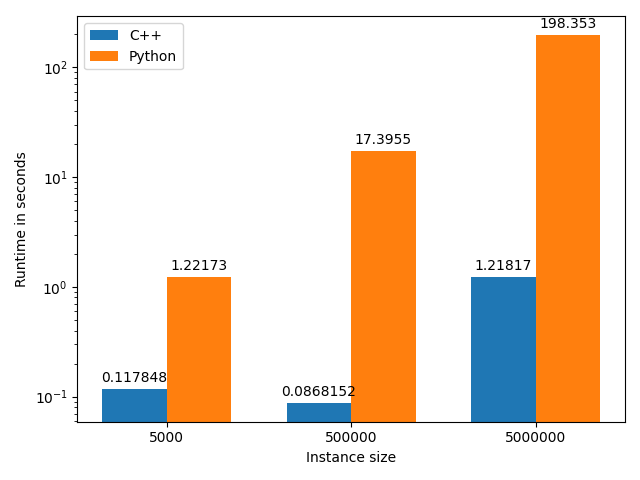
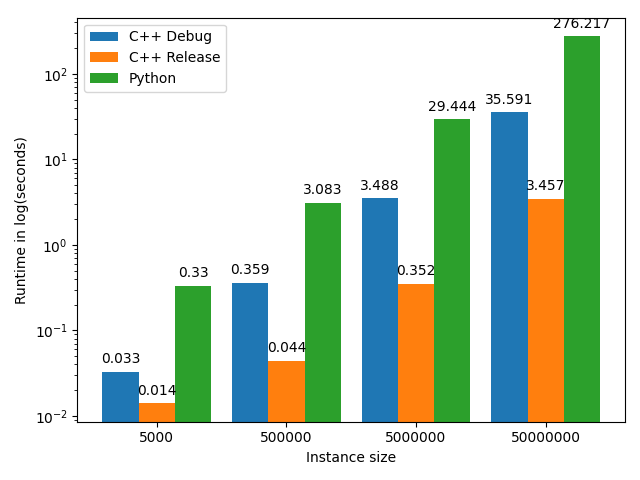
Fixed the python write flag, added result rounding

diff --git a/tester.py b/tester.py
@@ -4,9 +4,9 @@ import subprocess
 import matplotlib.pyplot as plt
 import numpy as np
 
-nbodypy = r"C:\Users\ordin\Documents\Github\GEO1000_Assignment_4\nbody.py"
-nbodyrelexe = r"C:\Users\ordin\Documents\Github\GEO1000_Assignment_4\cmake-build-release\nbody.exe"
-nbodydebexe = r"C:\Users\ordin\Documents\Github\GEO1000_Assignment_4\cmake-build-debug\nbody.exe"
+nbodypy = r"C:\Users\Durspy\Documents\GitHub\GEO1000_Assignment_4\nbody.py"
+nbodyrelexe = r"C:\Users\Durspy\Documents\GitHub\GEO1000_Assignment_4\cmake-build-release\nbody.exe"
+nbodydebexe = r"C:\Users\Durspy\Documents\GitHub\GEO1000_Assignment_4\cmake-build-debug\nbody.exe"
 iterations = [5000, 500000, 5000000, 50000000]
 
 creltimes = []
@@ -27,12 +27,22 @@ for iteration in iterations:
 	t2 = perf_counter()
 	creltimes.append(t2 - t1)
 
+
 for iteration in iterations:
 	print(f"Currently running iteration size number {iteration} in Python")
 	t1 = perf_counter()
 	system(f"python {nbodypy} {iteration}")
 	t2 = perf_counter()
 	pytimes.append(t2 - t1)
+
+print(cdebtimes)
+print(creltimes)
+print(pytimes)
+
+for (a, b, c, i) in zip(cdebtimes, creltimes, pytimes, range(len(iterations))):
+	cdebtimes[i] = round(a, 3)
+	creltimes[i] = round(b, 3)
+	pytimes[i] = round(c, 3)
 
 print(cdebtimes)
 print(creltimes)

diff --git a/nbody.py b/nbody.py
@@ -132,7 +132,8 @@ def write_iteration_data(iteration, file):
 def main(n, ref="sun"):
     offset_momentum(BODIES[ref])
     report_energy()
-    if sys.argv[2] == "--write":
+
+    if len(sys.argv) >= 3 and sys.argv[3] == "--write":
         with open("output.csv", "w") as f:
             write_initial_data(f)
             for i in range(1, n + 1):
